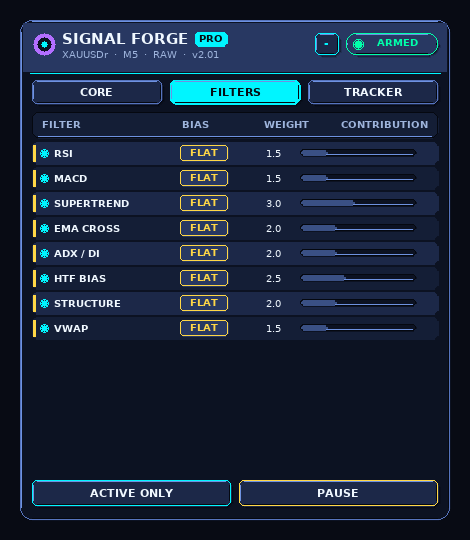
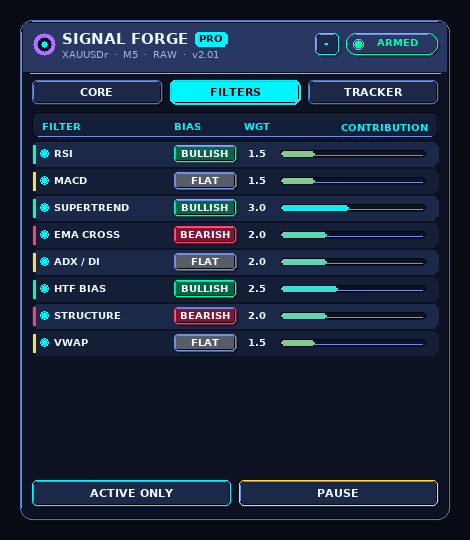
v2.03: fix text metrics, dead minimise button, graded bars, solid bias cards
- TextVC()/TextCenterVC() measure the glyph box with CCanvas::TextSize() and
  centre on it, replacing hand-tuned offsets that only held at scale 100%
- EnsureHud() now resizes the canvas IN PLACE; it previously destroyed and
  re-created the bitmap label on every size change, killing the click target
  mid-dispatch, which is why minimise/maximise did nothing
- MeterGraded()/StrengthColor(): bar colour grades amber->cyan->bull/bear with
  signal strength
- BIAS cards are solid raised plates: FLAT grey, BULLISH green, BEARISH red,
  always white text; added TGreyDeep to all three themes
- Filter row pitch SC(25)->SC(27), bias card SC(62)x SC(17), columns re-spaced
- DrawButton raised depth 1->2 for a stronger solid-raised look

diff --git a/docs/render_hud_preview.py b/docs/render_hud_preview.py
@@ -16,16 +16,20 @@ headerH = grab(r'int headerH = SC\((\d+)\);', 54)
 Hc      = grab(r'int pageH = SC\((\d+)\);\s*// CORE', 652)
 Hf      = grab(r'if\(gHudPage == 1\) pageH = SC\((\d+)\);', 500)
 gaugeH  = grab(r'int gaugeH = SC\((\d+)\);', 126)
+frowH   = grab(r'int rowH = SC\((\d+)\);\s*\n\s*for\(int i = 0; i < SF_FILTERS', 27)
+biasW   = grab(r'int bW = SC\((\d+)\), bH', 62)
+biasH   = grab(r'int bW = SC\(\d+\), bH = SC\((\d+)\);', 17)
+biasX   = grab(r'int bX = pad \+ SC\((\d+)\)', 142)
 costH   = grab(r'int costH = SC\((\d+)\);', 92)
 riskH   = grab(r'int riskH = SC\((\d+)\);', 112)
 tkH     = grab(r'int tkH = SC\((\d+)\);', 74)
-print(f"from source: W={W} core={Hc} filters={Hf} gauge={gaugeH} cost={costH} risk={riskH} tk={tkH}")
+print(f"from source: W={W} core={Hc} filters={Hf} frowH={frowH} bias={biasW}x{biasH}@{biasX}")
 
 TBg=(12,18,34);TBg2=(20,30,54);TPanel=(28,40,72);TPanelHi=(40,56,98)
 TBorder=(86,116,190);TAccent=(0,245,255);TAccent2=(178,110,255)
 TText=(240,248,255);TTextDim=(158,180,220);TBull=(0,255,170);TBear=(255,60,110)
 TFlat=(255,215,70);TWarn=(255,160,50);TGridC=(58,80,132)
-TLite=(110,146,225);TDark=(5,8,16)
+TLite=(110,146,225);TDark=(5,8,16);TBullDeep=(0,104,74);TBearDeep=(128,20,50);TGreyDeep=(86,92,104)
 def SC(v): return v
 DJ="/usr/share/fonts/truetype/dejavu/DejaVuSans%s.ttf"
 def F(sz,b=0):
@@ -57,6 +61,11 @@ class Page:
     def dot(self,x,y,r,on,onC,offC):
         self.cv.FillCircle(x+self.OX,y+self.OY,r,onC if on else offC)
         self.cv.Circle(x+self.OX,y+self.OY,r+1,onC if on else TGridC)
+    def meter_graded(self,x,y,w,h,v,strong):
+        def mix(a,b,t):
+            t=max(0.0,min(1.0,t)); return tuple(int(a[k]+(b[k]-a[k])*t) for k in range(3))
+        c = mix(TWarn,TAccent,v/0.5) if v<0.5 else mix(TAccent,strong,(v-0.5)/0.5)
+        self.meter(x,y,w,h,v,c)
     def meter(self,x,y,w,h,v,fc):
         self.sunk(x,y,w,h,h//2,TBg)
         fw=int(max(0.0,min(1.0,v))*(w-2))
@@ -67,6 +76,12 @@ class Page:
         f=F(int(sz*1.45),b); self.d.text((x+self.OX,y+self.OY),s,fill=c,font=f,anchor=anchor)
         if tag: self.spans.append((tag,self.d.textbbox((x+self.OX,y+self.OY),s,font=f,anchor=anchor)))
     def TR(self,x,y,s,c,sz=8,b=0,tag=None): self.T(x,y,s,c,sz,b,"ra",tag)
+    def TVC(self,x,y,h,s,c,sz=8,b=0,tag=None):
+        f=F(int(sz*1.45),b); bb=self.d.textbbox((0,0),s,font=f)
+        self.T(x,y+(h-(bb[3]-bb[1]))//2-bb[1],s,c,sz,b,"la",tag)
+    def TCVC(self,cx,y,h,s,c,sz=8,b=0,tag=None):
+        f=F(int(sz*1.45),b); bb=self.d.textbbox((0,0),s,font=f)
+        self.T(cx,y+(h-(bb[3]-bb[1]))//2-bb[1],s,c,sz,b,"ma",tag)
     def TC(self,x,y,s,c,sz=8,b=0,tag=None): self.T(x,y,s,c,sz,b,"ma",tag)
     def check(self,label):
         def ov(a,b): return not(a[2]<=b[0] or b[2]<=a[0] or a[3]<=b[1] or b[3]<=a[1])
@@ -184,16 +199,24 @@ y=headerH+SC(6)+SC(32)
 q.sunk(pad,y,innerW,SC(26),SC(6),TBg2); hdry=y; y+=SC(30)
 NAMES=["RSI","MACD","SUPERTREND","EMA CROSS","ADX / DI","HTF BIAS","STRUCTURE","VWAP"]
 WTS=[1.5,1.5,3.0,2.0,2.0,2.5,2.0,1.5]
-rowH=SC(25); rows=[]
+BIAS=["BULLISH","FLAT","BULLISH","BEARISH","FLAT","BULLISH","BEARISH","FLAT"]
+rowH=SC(frowH); rows=[]
 for i,n in enumerate(NAMES):
     if y+rowH > Hf-SC(46): break
     bg=TPanel if i%2==0 else TBg2
     q.rr(pad,y,innerW,rowH-SC(3),SC(4),bg,bg,False)
-    q.spine(pad+1,y+SC(3),rowH-SC(9),TFlat)
+    q.spine(pad+1,y+SC(3),rowH-SC(9),{"FLAT":TFlat,"BULLISH":TBull,"BEARISH":TBear}[BIAS[i]])
     q.dot(pad+SC(12),y+SC(11),SC(3),True,TAccent,TGridC)
-    q.rr(pad+SC(148),y+SC(3),SC(48),SC(16),SC(3),TPanelHi,TFlat)
-    q.meter(pad+SC(268),y+SC(7),innerW-SC(290),SC(7),WTS[i]/16.0*2.5,TGridC)
-    rows.append((y,n,WTS[i])); y+=rowH
+    cellH=rowH-SC(3)
+    bH=SC(biasH); bY=y+(cellH-bH)//2
+    st=BIAS[i]
+    bg={"FLAT":TGreyDeep,"BULLISH":TBullDeep,"BEARISH":TBearDeep}[st]
+    ed={"FLAT":TLite,"BULLISH":TBull,"BEARISH":TBear}[st]
+    q.raised(pad+SC(biasX),bY,SC(biasW),bH,SC(3),bg,ed,True,1)
+    share=WTS[i]/sum(WTS); norm=min(1.0,share*2.5)
+    strong={"FLAT":TFlat,"BULLISH":TBull,"BEARISH":TBear}[st]
+    q.meter_graded(pad+SC(248),y+(cellH-SC(7))//2,innerW-SC(260),SC(7),norm,strong)
+    rows.append((y,n,WTS[i],st,bY,bH)); y+=rowH
 fy=Hf-SC(40); bw2=(innerW-SC(8))//2
 q.raised(pad,fy,bw2,SC(26),SC(5),TPanel,TAccent,True,1)
 q.raised(pad+bw2+SC(8),fy,bw2,SC(26),SC(5),TPanel,TFlat,True,1)
@@ -201,14 +224,15 @@ q.finish(); draw_header_text(q)
 for i,l in enumerate(["CORE","FILTERS","TRACKER"]):
     bx=pad+(tabW+SC(8))*i
     q.TC(bx+tabW//2,headerH+SC(6)+SC(5),l,(6,10,18) if i==1 else TText,8,1,f"tab{i}")
-q.T(pad+SC(10),hdry+SC(6),"FILTER",TTextDim,7,1,"la","h0")
-q.T(pad+SC(150),hdry+SC(6),"BIAS",TTextDim,7,1,"la","h1")
-q.T(pad+SC(232),hdry+SC(6),"WEIGHT",TTextDim,7,1,"la","h2")
-q.TR(pad+innerW-SC(10),hdry+SC(6),"CONTRIBUTION",TTextDim,7,1,"h3")
-for i,(ry2,n,w) in enumerate(rows):
-    q.T(pad+SC(22),ry2+SC(5),n,TText,7,1,"la",f"n{i}")
-    q.TC(pad+SC(148)+SC(24),ry2+SC(4),"FLAT",TFlat,7,1,f"bi{i}")
-    q.T(pad+SC(234),ry2+SC(5),f"{w:.1f}",TText,7,0,"la",f"w{i}")
+q.T(pad+SC(10),hdry+SC(8),"FILTER",TAccent,7,1,"la","h0")
+q.T(pad+SC(biasX),hdry+SC(8),"BIAS",TAccent,7,1,"la","h1")
+q.T(pad+SC(212),hdry+SC(8),"WGT",TAccent,7,1,"la","h2")
+q.TR(pad+innerW-SC(10),hdry+SC(9),"CONTRIBUTION",TAccent,7,1,"h3")
+for i,(ry2,n,w,st,bY,bH) in enumerate(rows):
+    cellH=rowH-SC(3)
+    q.TVC(pad+SC(22),ry2,cellH,n,TText,7,1,f"n{i}")
+    q.TCVC(pad+SC(biasX)+SC(biasW)//2,bY,bH,st,(255,255,255),7,1,f"bi{i}")
+    q.TVC(pad+SC(216),ry2,cellH,f"{w:.1f}",TText,7,1,f"w{i}")
 q.TC(pad+bw2//2,fy+SC(6),"ACTIVE ONLY",TText,8,1,"f1")
 q.TC(pad+bw2+SC(8)+bw2//2,fy+SC(6),"PAUSE",TText,8,1,"f2")
 q.check("FILTERS")

diff --git a/README.md b/README.md
@@ -331,3 +331,36 @@ asserts zero card/candle and card/card overlaps
 **Performance note:** closed cards are only rebuilt when history changes or the
 chart moves (`gCardsDirty`); only the cheap live card redraws every tick.
 Rebuilding ~125 chart objects at the HUD refresh rate would flicker badly.
+
+## v2.03 — text metrics, working minimise, graded bars, solid bias cards
+
+**Text positioning.** Every label was placed with a hand-tuned magic offset
+(`y + SC(5)`, `y + h/2 - SC(7)`, ...) that was calibrated at
+`HudScalePercent = 100` for one specific font. Any other scale or font and the
+text drifted out of its box. Added `TextVC()` / `TextCenterVC()`, which measure
+the real glyph box with `CCanvas::TextSize()` and centre on it. Buttons, chips,
+filter rows, KPI cards and the tracker header now use them.
+
+**Minimise / maximise button.** `EnsureHud()` called `DestroyHud()` and
+re-created the bitmap label on *every* size change — and a collapse *is* a size
+change. The click that triggered it was being dispatched against an object that
+had just been deleted, so the toggle appeared dead. It now calls
+`CCanvas::Resize()` in place, keeping the object (and the click target) alive.
+The glyph is a clear `-` / `+` and the hit box grew to `SC(28)`.
+
+**Strength-graded progress bars.** `MeterGraded()` + `StrengthColor()` blend the
+fill colour with the level: weak signals read amber, mid cyan, strong resolves
+to the filter's bull/bear colour. Conviction is now readable from colour, not
+just bar length.
+
+**BIAS cards — solid raised, white text.** Each filter's bias is a raised plate
+whose *background* carries the state, with white `Segoe UI Black` text:
+
+| state | background | text |
+|-------|-----------|------|
+| FLAT | grey (`TGreyDeep`) | white |
+| BULLISH | green (`TBullDeep`) | white |
+| BEARISH | red (`TBearDeep`) | white |
+
+`TGreyDeep` was added to all three themes. Labels widened to
+BULLISH/BEARISH/FLAT and the row pitch grew to `SC(27)` to fit.
